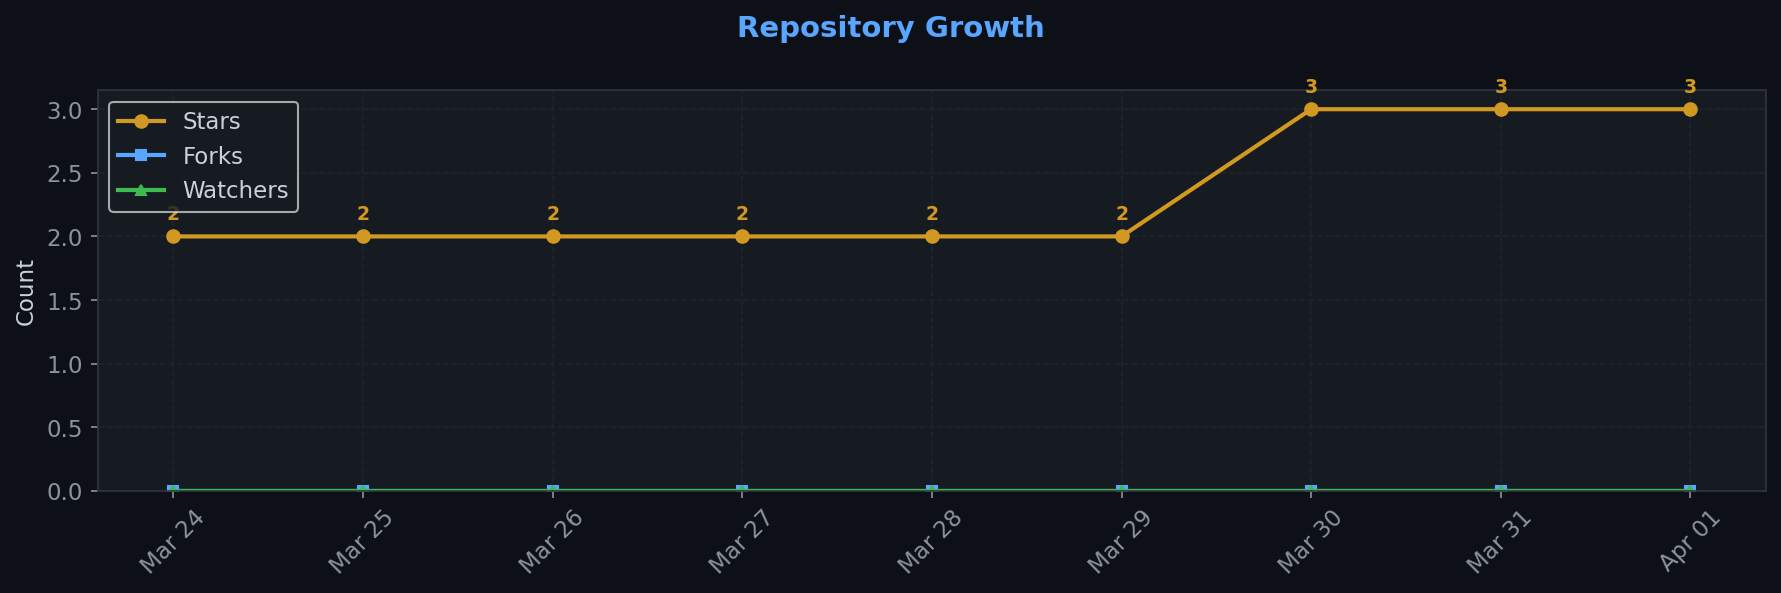
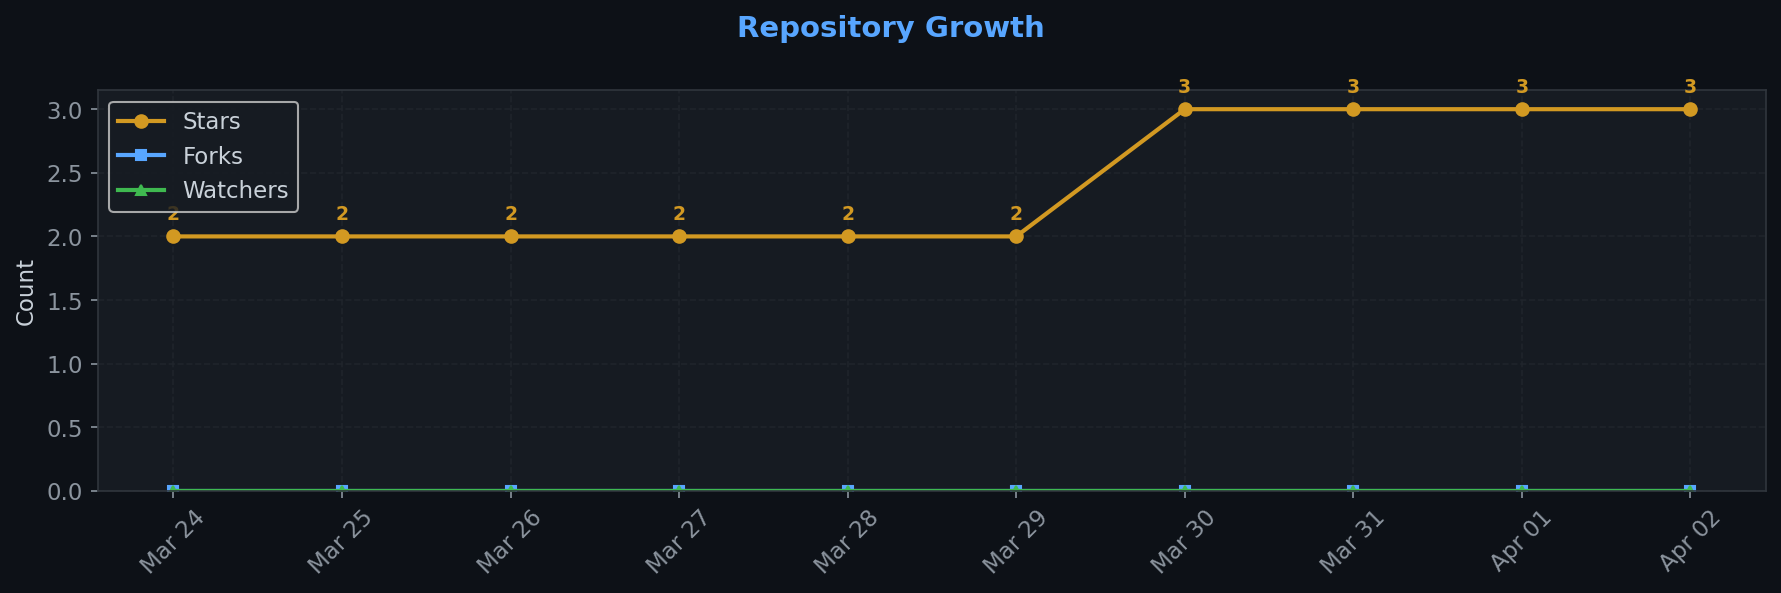
chore: Full traffic snapshot 2026-04-02_00:18

diff --git a/.github/traffic/SUMMARY.md b/.github/traffic/SUMMARY.md
@@ -1,7 +1,7 @@
 # Repository Traffic Dashboard
 
-**Last updated:** 2026-04-01T18:16:47Z
-**Days tracked:** 9 | **Download snapshots:** 33 (hourly)
+**Last updated:** 2026-04-02T00:18:28Z
+**Days tracked:** 10 | **Download snapshots:** 34 (hourly)
 
 ---
 
